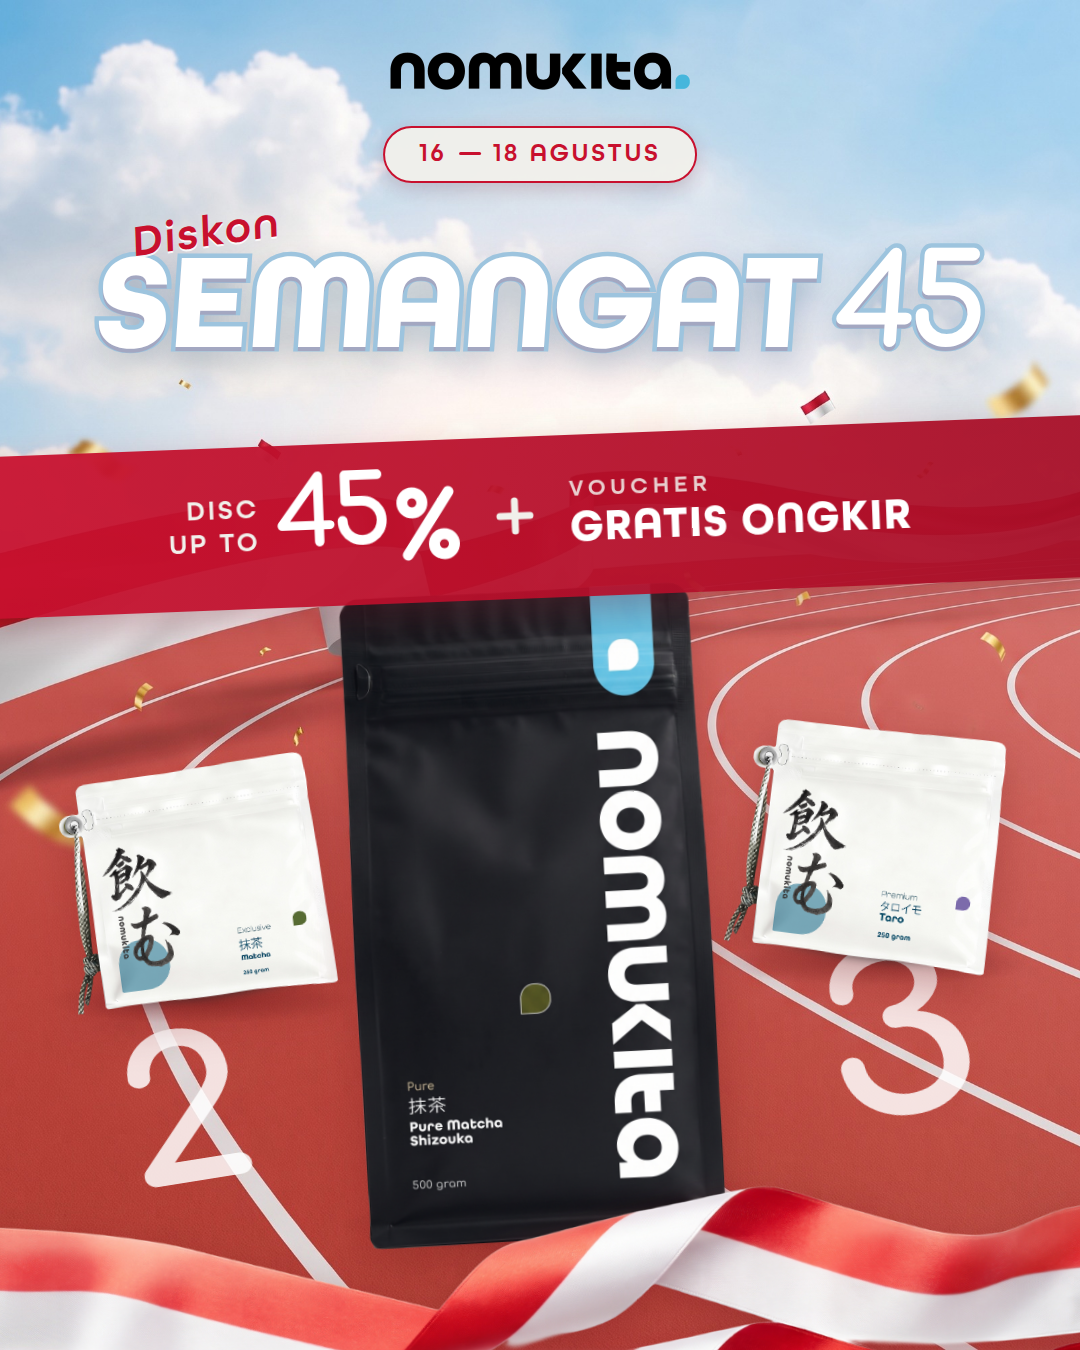
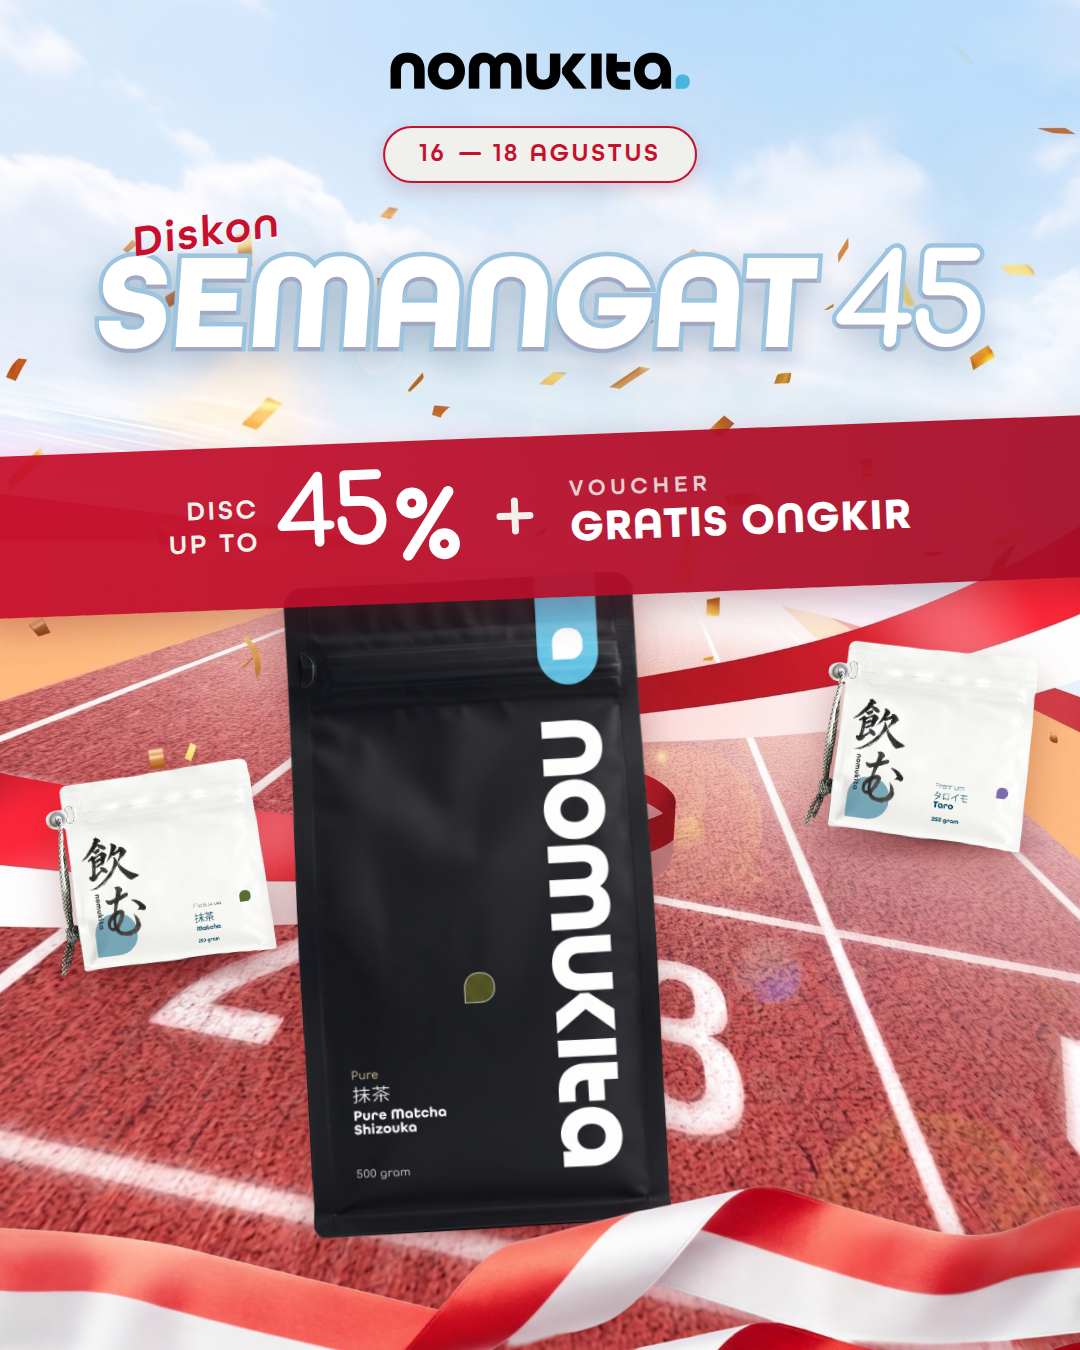
Bake the 17an lane numbers into the scene, staged from the reference
Four rounds of CSS-overlay lane numbers never sat right, because pasted
glyphs cannot match paint that belongs to the scene. Regenerated the
background with the reference banner itself as image_input and an
"empty stage" instruction: same camera, lanes, painted 2 and 3 in the
reference's positions and perspective, ribbon and confetti — minus the
products, logo and all promotional text. The digits now carry real rubber
texture and perspective for free.

Products are then seated against the measured digit boxes (2 at x95-255
y935-1150, 3 at x621-741 y960-1132) with the reference's own proportions:
centre product ~36% of canvas width, sides ~23%, staggered right-high →
left → centre-low. The leader's edge clips ~29% of the 3 — the same
partial occlusion the reference uses — and the premix's feet touch the 2
without covering it.

README replaces the overlay narrative with the baked-scene recipe and
marks the overlay path as a dead end: to change the numbers, regenerate
the background.

Claude-Session: https://claude.ai/code/session_01JLTZpkd5TWMrYgZzd5niuW

diff --git a/design/17agustus/banner.html b/design/17agustus/banner.html
@@ -77,18 +77,9 @@
 
   /* ── products on the track ── */
   .prod{position:absolute;z-index:6;filter:drop-shadow(0 18px 22px rgba(120,25,30,.35))}
-  .p-shz{left:352px;top:590px;width:360px;z-index:7;transform:rotate(-3deg)}
-  .p-pre{left:52px; top:766px;width:302px;transform:rotate(-8deg)}
-  .p-tar{right:52px;top:728px;width:302px;transform:rotate(7deg)}
-  /* lane numbers painted on the rubber, perspective-faked in CSS so the
-     digits stay programmatic text (production rule: no AI text) */
-  .lane{position:absolute;z-index:5;font-family:var(--brand-body);font-weight:800;
-    color:rgba(255,255,255,.84);line-height:1;pointer-events:none;
-    transform-origin:center center;width:220px;text-align:center}
-  .lane.n2{left:76px; top:1004px;font-size:224px;
-    transform:perspective(1100px) rotateX(28deg) rotateZ(-10deg)}
-  .lane.n3{left:788px;top:912px;font-size:256px;
-    transform:perspective(1100px) rotateX(28deg) rotateZ(-14deg)}
+  .p-shz{left:296px;top:579px;width:360px;z-index:7;transform:rotate(-3deg)}
+  .p-pre{left:40px; top:770px;width:250px;transform:rotate(-8deg)}
+  .p-tar{right:24px;top:648px;width:250px;transform:rotate(7deg)}
   /* finish-line tape breaking across the leader's lane, in front of everything */
   .tape{position:absolute;left:-70px;top:1192px;width:1220px;z-index:8;
     transform:rotate(-1.6deg);
@@ -134,11 +125,9 @@
     </div>
   </div>
 
-  <div class="gshadow" style="left:338px;top:1196px;width:400px;height:58px"></div>
-  <div class="gshadow" style="left:44px;top:978px;width:318px;height:46px"></div>
-  <div class="gshadow" style="right:44px;top:940px;width:318px;height:46px"></div>
-  <div class="lane n2">2</div>
-  <div class="lane n3">3</div>
+  <div class="gshadow" style="left:282px;top:1188px;width:400px;height:58px"></div>
+  <div class="gshadow" style="left:34px;top:944px;width:262px;height:42px"></div>
+  <div class="gshadow" style="right:20px;top:822px;width:262px;height:42px"></div>
 
   <img class="prod p-pre" src="assets/premix.png" alt="Matcha Premix 250 gram">
   <img class="prod p-tar" src="assets/taro.png" alt="Taro 250 gram">

diff --git a/design/17agustus/README.md b/design/17agustus/README.md
@@ -44,29 +44,35 @@ versi pertama hanya strip tipis di dasar frame, produk terbaca "dipajang di
 depan langit", bukan balapan). Lajur melengkung dari kiri-bawah ke kanan,
 produk berdiri *di tengah* permukaan merah, dikelilingi lajur.
 
-**Angka lajur ("2", "3") bukan bagian background** — dilukis via CSS (`.lane`,
-Comfortaa Bold putih 48%) supaya teks tetap programatik sesuai aturan produksi
-design system. Kalau background digenerate ulang, angka lajur tidak ikut hilang.
+**Angka lajur ("2", "3") kini bagian dari background** — digenerate bersama
+scene-nya, dengan `Referensi Banner 17 Agustus.jpg` sebagai `image_input` dan
+instruksi "recreate the scene as an empty stage": kamera, lajur, angka terlukis
+(posisi/ukuran/perspektif referensi), pita, dan konfeti disalin; produk, logo,
+dan semua teks promosi dihilangkan. Angka jadi punya tekstur karet dan
+perspektif asli, hal yang tidak pernah tercapai lewat overlay CSS.
 
-Sudut & posisinya **diukur dari garis lajur asli**, bukan dikira. Scan kecerahan
-menemukan garis putih pada background: garis kiri miring **~24° dari tegak**,
-lajur melebar makin ke kanan sampai **~49°** di sisi kanan. Tiap angka `rotate`
-sesuai sudut lajurnya + `scaleY(.57–.6)` untuk foreshortening, dan ditaruh di
-**tengah channel** (bukan menindih garis): `2` di lajur terluar kiri
-(`rotate(-24deg)`), `3` di channel kanan (`rotate(-49deg)`). Kalau background
-diganti, ukur ulang sudut garisnya — percobaan pertama pakai −13° seragam dan
-melenceng dari lajur.
+Empat percobaan overlay CSS sebelumnya (sudut seragam, sudut terukur, rotateX
+rebah, spec besar-terang) semuanya gagal menyatu — angka tempelan tidak bisa
+menyamai cat yang terlukis di scene. Kalau angka perlu diubah, generate ulang
+background-nya, jangan kembali ke overlay.
+
+Posisi angka pada background aktif (diukur dari alpha/kecerahan, kanvas 1080):
+`2` di x95-255 y935-1150, `3` di x621-741 y960-1132. Produk diposisikan
+terhadap angka ini: tepi kanan Shizouka memotong ~29% sisi kiri `3` (pola
+oklusi referensi), kaki Premix menyentuh puncak `2` tanpa menutupinya.
+Fragmen glyph terpotong di tepi kanan frame adalah bawaan scene, seperti
+referensi yang juga punya tanda terpotong di tepinya.
 
 Produk ditata sebagai pelari di lintasan:
 
-- **Pose balapan referensi**: miring dinamis — Shizouka `-3°`, Premix `-8°`,
-  Taro `+7°` — dengan kaki ketiganya tetap **di dalam permukaan merah lintasan**
-  (tepi belakang lintasan ~y1085 kiri sampai ~y1010 kanan; kaki harus di bawah
-  garis itu, jangan tepat di tepinya).
-- **Shizouka memimpin** — tengah, terbesar, puncaknya menyelip di belakang band
-  (persis produk tengah referensi), menembus **pita finis** (`assets/tape.png`).
-- **Premix & Taro menyusul** — kaki ~y1188 / ~y1171, lebih kecil, di lajur
-  masing-masing.
+- **Rasio ukuran disalin dari referensi**: produk tengah ~36% lebar kanvas
+  (`w360`), produk samping ~23% (`w250`) — di referensi produk samping memang
+  ±2/3 produk tengah.
+- **Stagger referensi**: Taro kanan-atas (kaki ~y850), Premix kiri-tengah
+  (kaki ~y972), Shizouka tengah-bawah terbesar (kaki ~y1230) menembus
+  **pita finis** (`assets/tape.png`); puncaknya menyelip di belakang band.
+- Miring dinamis referensi dipertahankan: Shizouka `-3°`, Premix `-8°`,
+  Taro `+7°`.
 
 ### Pouch Shizouka tampak depan
 
